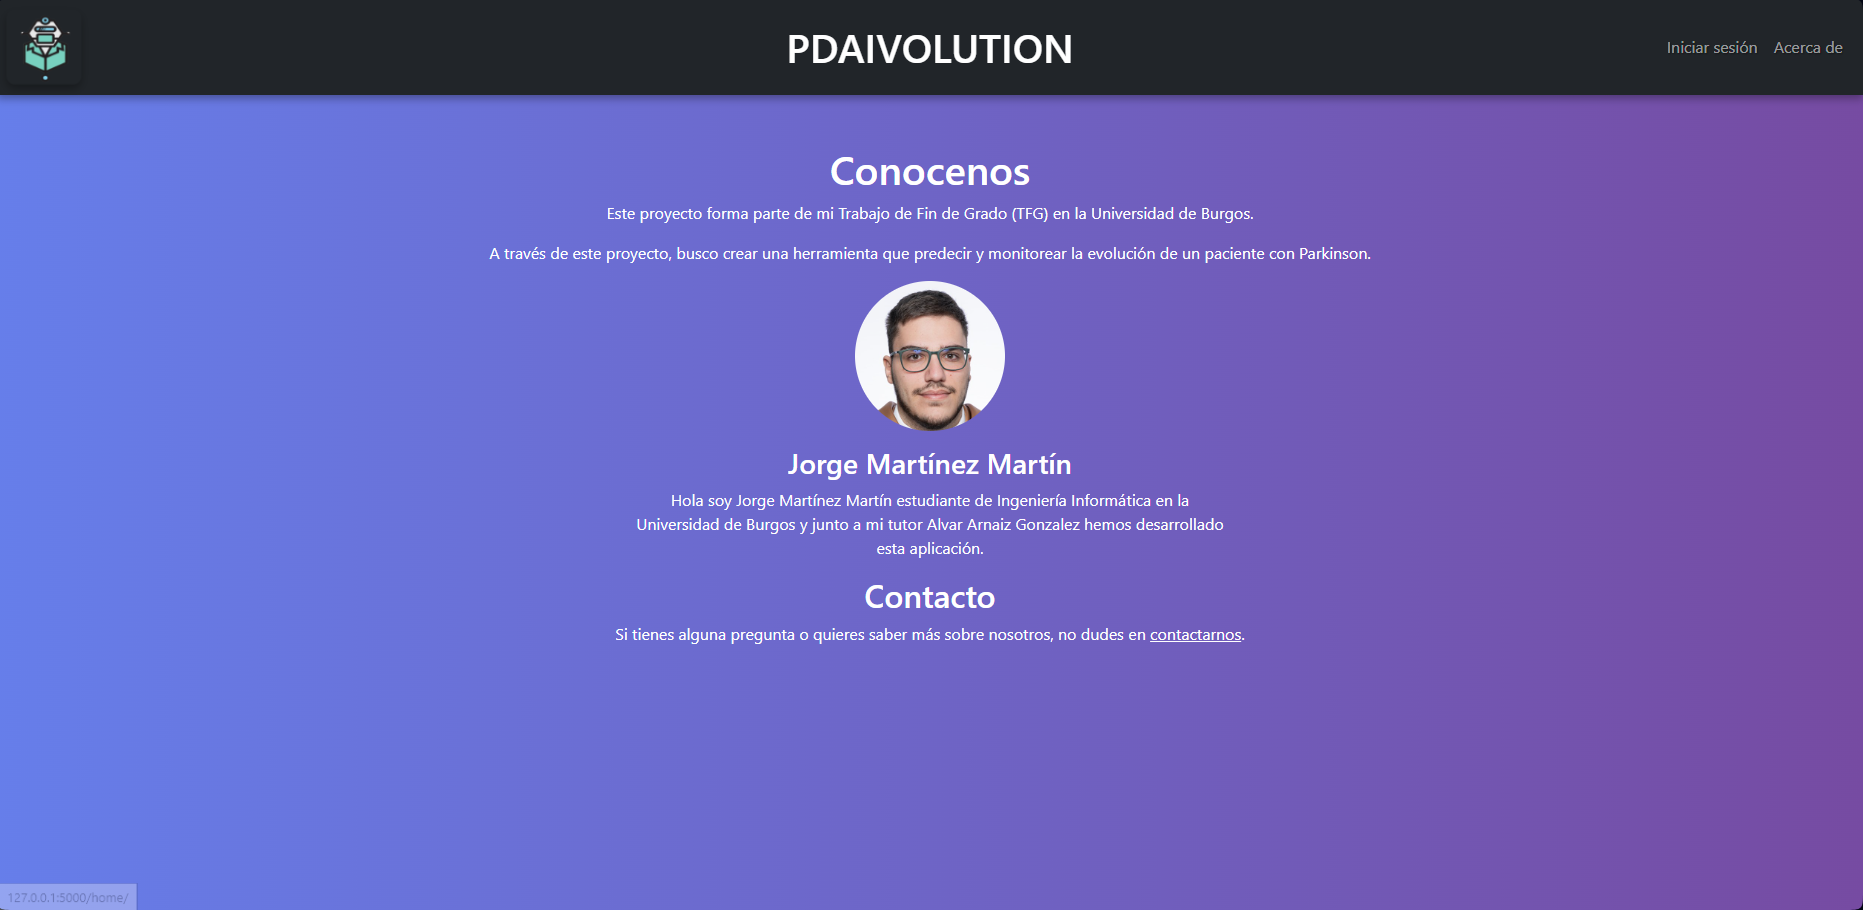
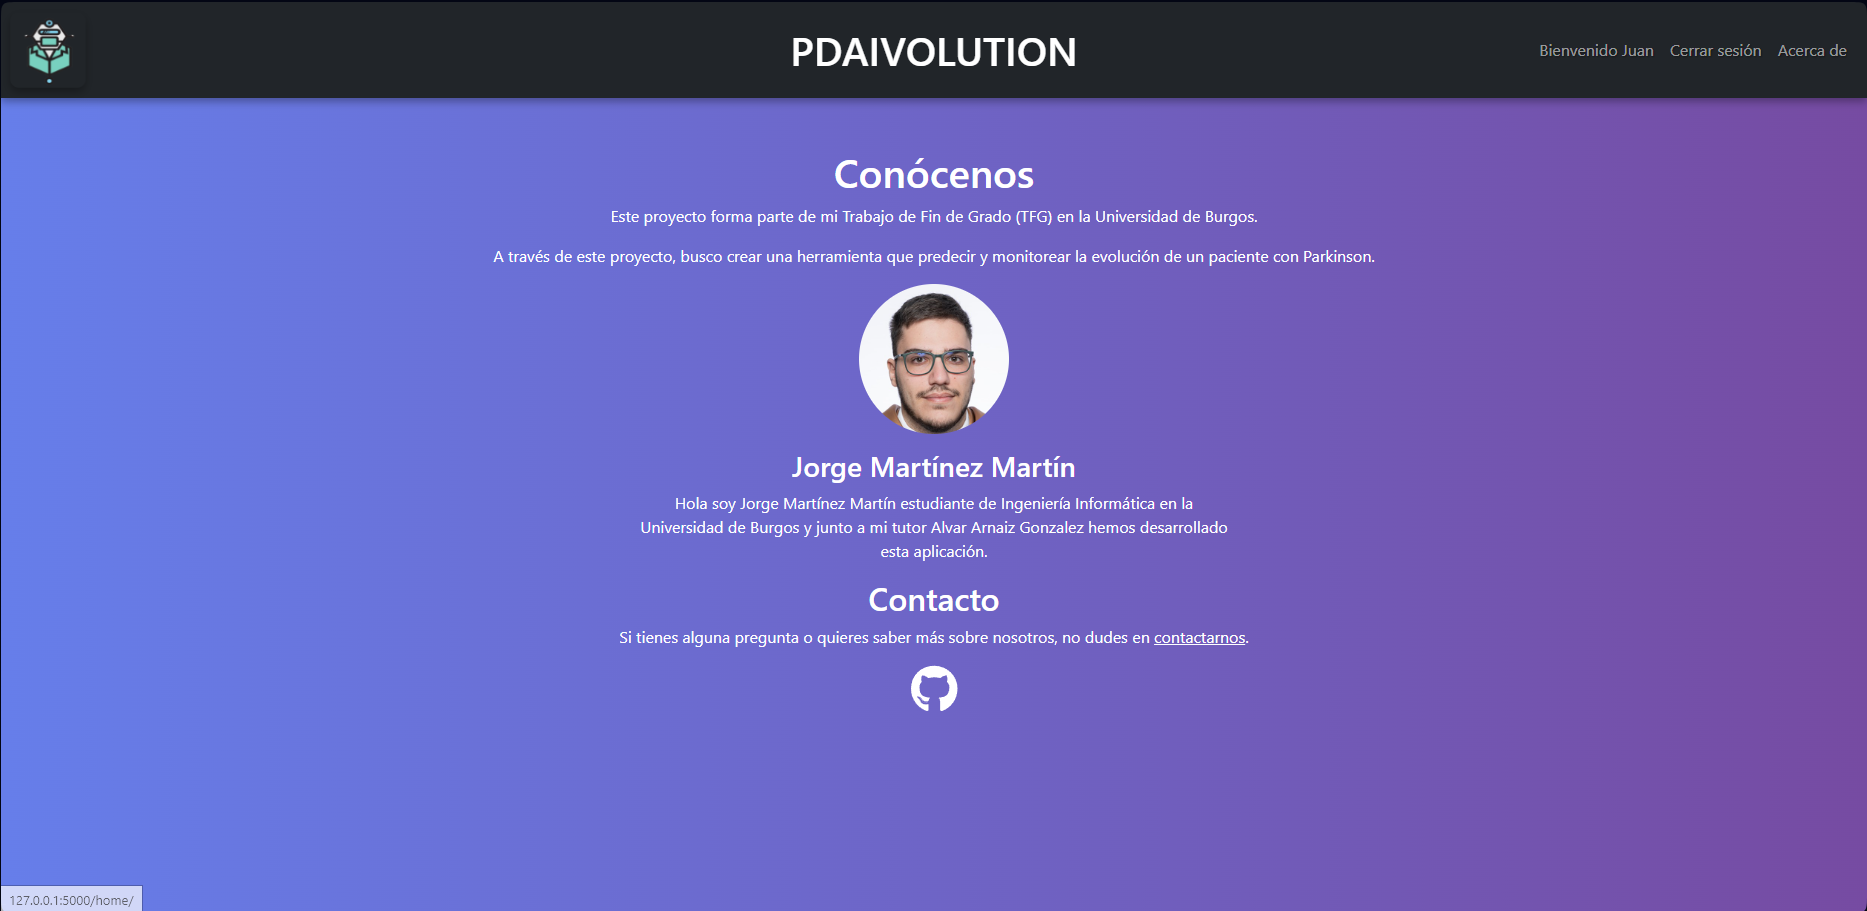
Added github link

diff --git a/web/app/templates/about.html b/web/app/templates/about.html
@@ -1,6 +1,7 @@
 <!DOCTYPE html>
 <html lang="es">
 <head>
+    {{ font_awesome.load_js() }}
     <link href="https://cdn.jsdelivr.net/npm/bootstrap@5.1.3/dist/css/bootstrap.min.css" rel="stylesheet" />
     <title>Acerca de Nosotros</title>
     <link href="https://cdn.jsdelivr.net/npm/bootstrap@5.2.3/dist/css/bootstrap.min.css" rel="stylesheet" integrity="sha384-rbsA2VBKQhggwzxH7pPCaAqO46MgnOM80zW1RWuH61DGLwZJEdK2Kadq2F9CUG65" crossorigin="anonymous" />
@@ -41,6 +42,12 @@
             max-width: 150px;
             margin-bottom: 15px;
         }
+
+        .social-links a {
+            color: white;
+            margin: 0 10px;
+            text-decoration: none;
+        }
     </style>
 </head>
 <body>
@@ -50,7 +57,7 @@
     {% include 'navbarunlogged.html' %}
     {% endif %}
     <div class="content">
-        <h1>Conocenos</h1>
+        <h1>Conócenos</h1>
         <p>Este proyecto forma parte de mi Trabajo de Fin de Grado (TFG) en la Universidad de Burgos.</p>
         
         <p>A través de este proyecto, busco crear una herramienta que predecir y monitorear la evolución de un paciente con Parkinson.</p>
@@ -61,11 +68,18 @@
                     <img src="{{ url_for('static', filename='me.jpg') }}" alt="Team Member 1" style="border-radius: 50%;">
                 </div>
                 <h3>Jorge Martínez Martín</h3>
-                <p>Hola soy Jorge Martínez Martín estudiante de Ingeniería Informática en la Universidad de Burgos y junto a mi tutor Alvar Arnaiz Gonzalez hemos desarrollado esta aplicación.</p>
+                <p>Hola soy Jorge Martínez Martín estudiante de Ingeniería Informática en la Universidad de Burgos y junto a mi tutor Álvar Arnaiz González hemos desarrollado esta aplicación.</p>
             </div>
         </div>
         <h2>Contacto</h2>
         <p>Si tienes alguna pregunta o quieres saber más sobre nosotros, no dudes en <a href="mailto:jmm1032@alu.ubu.es" style="color: white;">contactarnos</a>.</p>
+        <div class="social-links">
+
+            <a href="https://github.com/JornezMM" target="_blank">
+                <i class="fab fa-github fa-3x"></i>
+            </a>
+
+        </div>
     </div>
 </body>
 </html>

diff --git a/web/app/templates/patient.html b/web/app/templates/patient.html
@@ -174,28 +174,29 @@
 
 
     // Calculate the minimum time interval between videos
-    let minInterval = Infinity;
+    let maxInterval = 0;
     for (let i = 1; i < dates.length; i++) {
-      const interval = new Date(dates[i]) - new Date(dates[i - 1]);
-      if (interval < minInterval) {
-        minInterval = interval;
-      }
+      for (let j = 1; i < dates.length; i++) {
+        const interval = Math.abs(new Date(dates[i]) - new Date(dates[j]));
+        if (interval > maxInterval) {
+          maxInterval = interval;
+        }
+     }
     }
-
     // Determine tick interval based on minInterval
     let tickInterval;
-    if (minInterval <= 7 * 24 * 60 * 60 * 1000) { // 1 week
+    if (maxInterval <= 7 * 24 * 60 * 60 * 1000) { // 1 week
       tickInterval = d3.timeDay.every(2);
-      xPadding = 1 * 12 * 60 * 60 * 1000; // 12 hours padding for x-axis
+      xPadding = 12* 60 * 60 * 1000; // 12 hours padding for x-axis
       tickFormat = d3.timeFormat("%d-%m-%Y");
-    } else if (minInterval <= 30 * 24 * 60 * 60 * 1000) { // 1 month
+    } else if (maxInterval <= 30 * 24 * 60 * 60 * 1000) { // 1 month
       tickInterval = d3.timeWeek.every(2);
-      xPadding = 7 * 24 * 60 * 60 * 1000; // 1 week padding for x-axis
+      xPadding = 3 * 24 * 60 * 60 * 1000; // 1 week padding for x-axis
       tickFormat = d3.timeFormat("%b-%Y");
     } else {
       tickInterval = d3.timeMonth.every(2);
       xPadding = 30 * 24 * 60 * 60 * 1000; // 1 month padding for x-axis
-      tickFormat = d3.timeFormat("%Y");
+      tickFormat = d3.timeFormat("%m-%Y");
     }
     x.domain([
       d3.min([...amplitude, ...lent], d => d.date) - xPadding,
